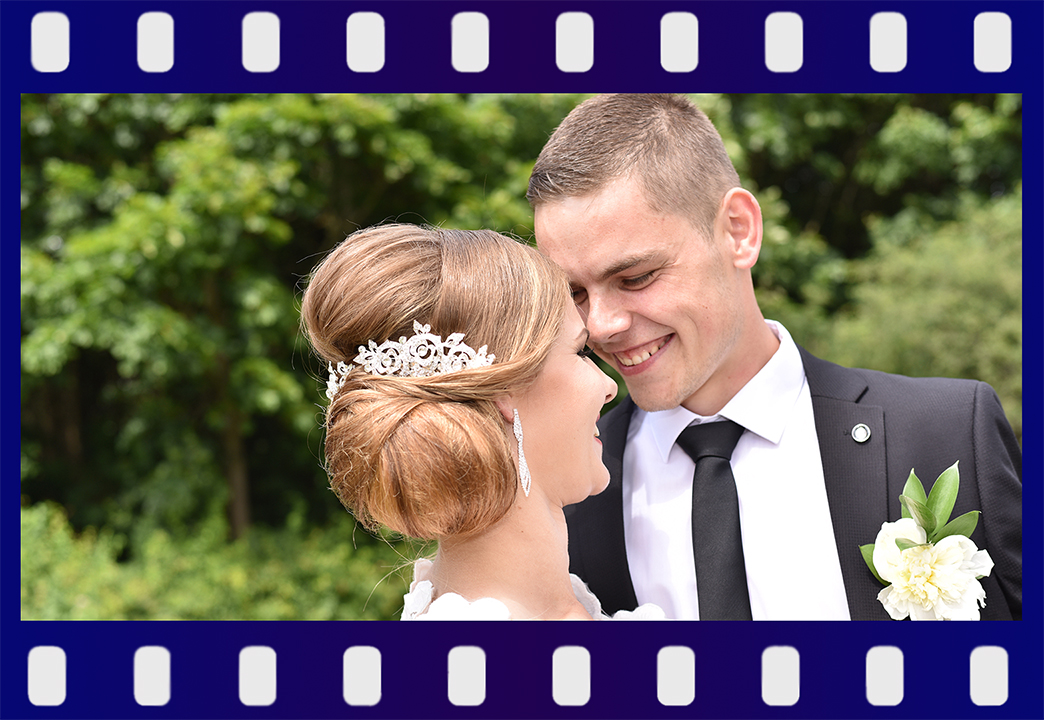
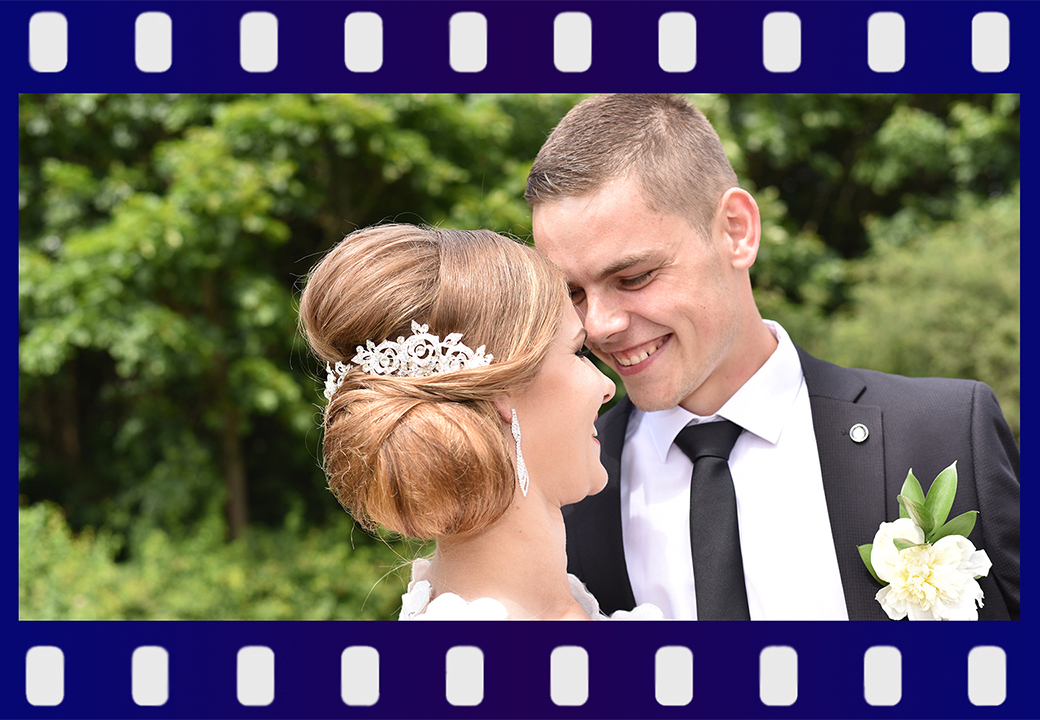
Adjust image size

diff --git a/src/components/Pricing.js b/src/components/Pricing.js
@@ -2,42 +2,81 @@ import React from "react"
 import styled from "styled-components"
 import Table from "react-bootstrap/Table"
 import Card from "react-bootstrap/Card"
-import voucher from "../assets/Pricing/vaucherWithRibbon.png"
+import voucher from "../assets/Pricing/vaucherWithRibbon.jpg"
 const Pricing = () => {
   return (
     <Styled>
       <Card>
         <Card.Body>
+          <h2>Pricing Table</h2>
           <Table striped bordered hover>
             <thead>
               <tr>
-                <th>Event</th>
+                <th>Photo Shoot</th>
                 <th>Duration</th>
                 <th>Hourly Rate</th>
-                <th>Photos Per Hour</th>
+                <th>Photo Amount</th>
               </tr>
             </thead>
             <tbody>
               <tr>
-                <td>Weddings</td>
-                <td>2-6 hours</td>
-                <td>120£</td>
-                <td>10</td>
+                <td>Wedding</td>
+                <td>2-4 hours</td>
+                <td>50£</td>
+                <td>20</td>
               </tr>
               <tr>
-                <td>Parties</td>
+                <td>Family</td>
+                <td>60-90 minutes</td>
+                <td>65£</td>
+                <td>20</td>
+              </tr>
+              <tr>
+                <td>Maternity</td>
+                <td>60-90 minutes</td>
+                <td>60£</td>
+                <td>20</td>
+              </tr>
+              <tr>
+                <td>NewBorn</td>
+                <td>60 minutes</td>
+                <td>65£</td>
+                <td>15</td>
+              </tr>
+              <tr>
+                <td>Portrait</td>
                 <td>1-2 hours</td>
-                <td>80£</td>
-                <td>8</td>
+                <td>70£</td>
+                <td>15</td>
               </tr>
               <tr>
-                <td colSpan="2">Baby Showers</td>
-                <td>90£</td>
-                <td>9</td>
+                <td>Event</td>
+                <td>1-2 hours</td>
+                <td>65£</td>
+                <td>15</td>
+              </tr>
+              <tr>
+                <td>Party</td>
+                <td>1-2 hours</td>
+                <td>60£</td>
+                <td>15</td>
+              </tr>
+              <tr>
+                <td>Mini-Shoots</td>
+                <td>30-40 minutes</td>
+                <td>set 65£</td>
+                <td>15</td>
               </tr>
             </tbody>
           </Table>
+          <br />
+          <p>All photographs come loaded in a USB memory stick with no extra charges.</p>
           <hr />
+          <p>
+            Vouchers are a great gift for any occasion. Gift your love one's an opportunity to save
+            their favorite moments. Gift Vouchers are available for every event and can be ordered
+            over the phone. Vouchers can be sent to you by mail or picked up at my studio.
+          </p>
           <Card.Img variant="top" src={voucher} />
           <hr />
         </Card.Body>

diff --git a/src/components/SocialMedia.js b/src/components/SocialMedia.js
@@ -1,15 +1,13 @@
 import React from "react"
 import styled from "styled-components"
-import { FaFacebookSquare } from "react-icons/fa"
-import instaIcon from "../assets/sideIcons/instagram.png"
-import instaDark from "../assets/sideIcons/instaDark.png"
+import { FaFacebookSquare, FaInstagram } from "react-icons/fa"
 
 const SocialMedia = () => {
   return (
     <Styled>
       <a
         className="facebook"
-        href="https://www.facebook.com/vitasmilephotography/"
+        href="https://www.facebook.com/vitasmilephotography"
         target="_blank"
         rel="noopener noreferrer">
         <FaFacebookSquare size={43} />
@@ -19,8 +17,26 @@ const SocialMedia = () => {
         href="https://urlgeni.us/instagram/vita.smile"
         target="_blank"
         rel="noopener noreferrer">
-        i
+        <FaInstagram className="fa-instagram" size={43} />
       </a>
+      <svg width="0" height="0">
+        <radialGradient id="rg" r="150%" cx="30%" cy="107%">
+          <stop stop-color="#fdf497" offset="0" />
+          <stop stop-color="#fdf497" offset="0.05" />
+          <stop stop-color="#fd5949" offset="0.45" />
+          <stop stop-color="#d6249f" offset="0.6" />
+          <stop stop-color="#285AEB" offset="0.9" />
+        </radialGradient>
+      </svg>
+      <svg width="0" height="0">
+        <radialGradient id="rgi" r="150%" cx="30%" cy="107%">
+          <stop stop-color="#e1d989" offset="0" />
+          <stop stop-color="#e1d989" offset="0.05" />
+          <stop stop-color="#ce483b" offset="0.45" />
+          <stop stop-color="#c42192" offset="0.6" />
+          <stop stop-color="#214dce" offset="0.9" />
+        </radialGradient>
+      </svg>
     </Styled>
   )
 }
@@ -33,22 +49,20 @@ const Styled = styled.div`
     right: 1px;
     top: 503px;
   }
+  .instagram svg * {
+    fill: url(#rg);
+  }
+
+  .instagram svg *:hover {
+    fill: url(#rgi);
+  }
+
   .instagram {
-    -webkit-text-fill-color: transparent;
     width: 44px;
-    padding: 11px;
     display: block;
     position: fixed;
-    right: 0;
-    top: 547px;
-    background: url(${instaIcon});
-    background-size: 41px;
-    background-repeat: no-repeat;
-  }
-  .instagram:hover {
-    background: url(${instaDark});
-    background-size: 41px;
-    background-repeat: no-repeat;
+    right: 1px;
+    top: 545px;
   }
   .a {
     padding-right: 10px;

diff --git a/src/components/Navigation.js b/src/components/Navigation.js
@@ -31,7 +31,7 @@ const Navigation = () => {
               </NavDropdown.Item>
               <NavDropdown.Item
                 as="a"
-                href="https://www.google.com/maps/@52.569658,-0.2263321,19.33z"
+                href="https://www.google.com/maps/dir//Vita-Smile-Photography,+11+James+Ave,+Peterborough+PE1+5BL/@52.5895663,-0.271727,13z/"
                 target="_blank">
                 Location
               </NavDropdown.Item>
